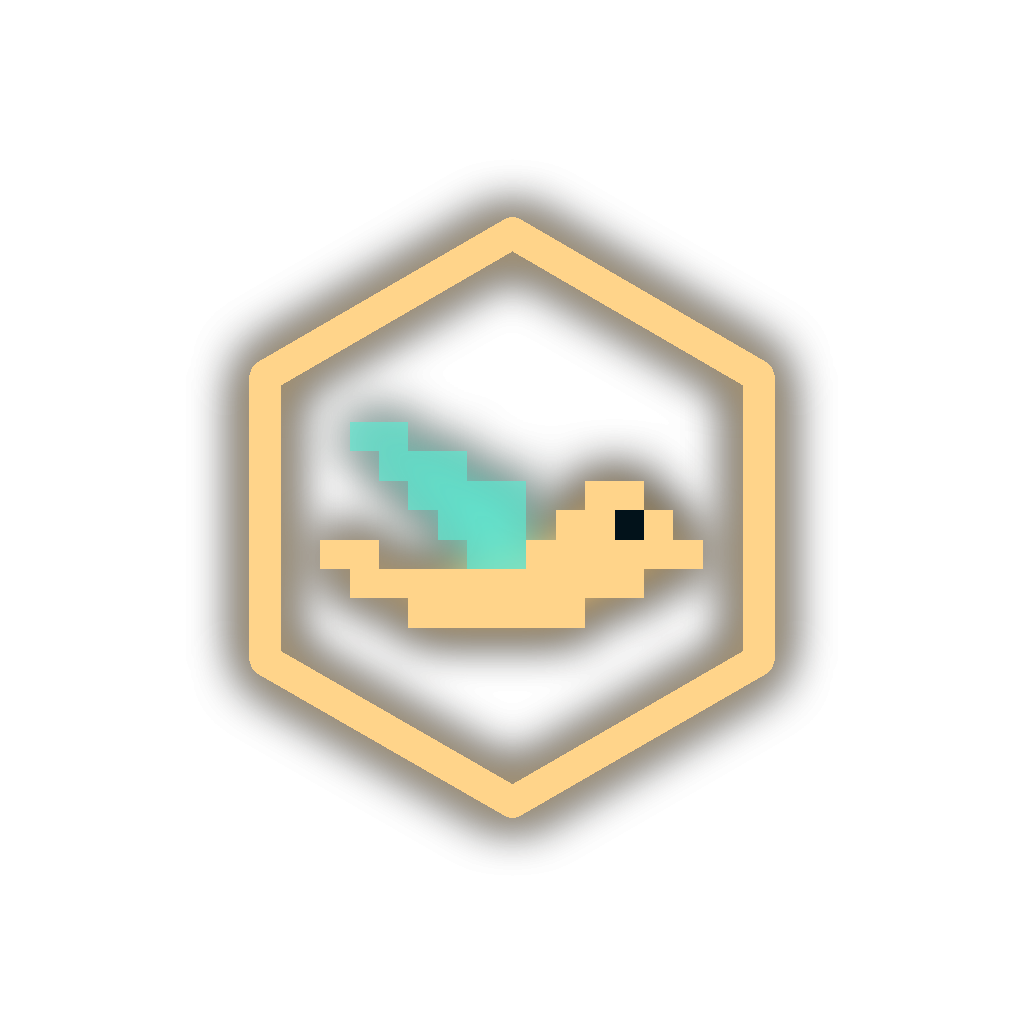
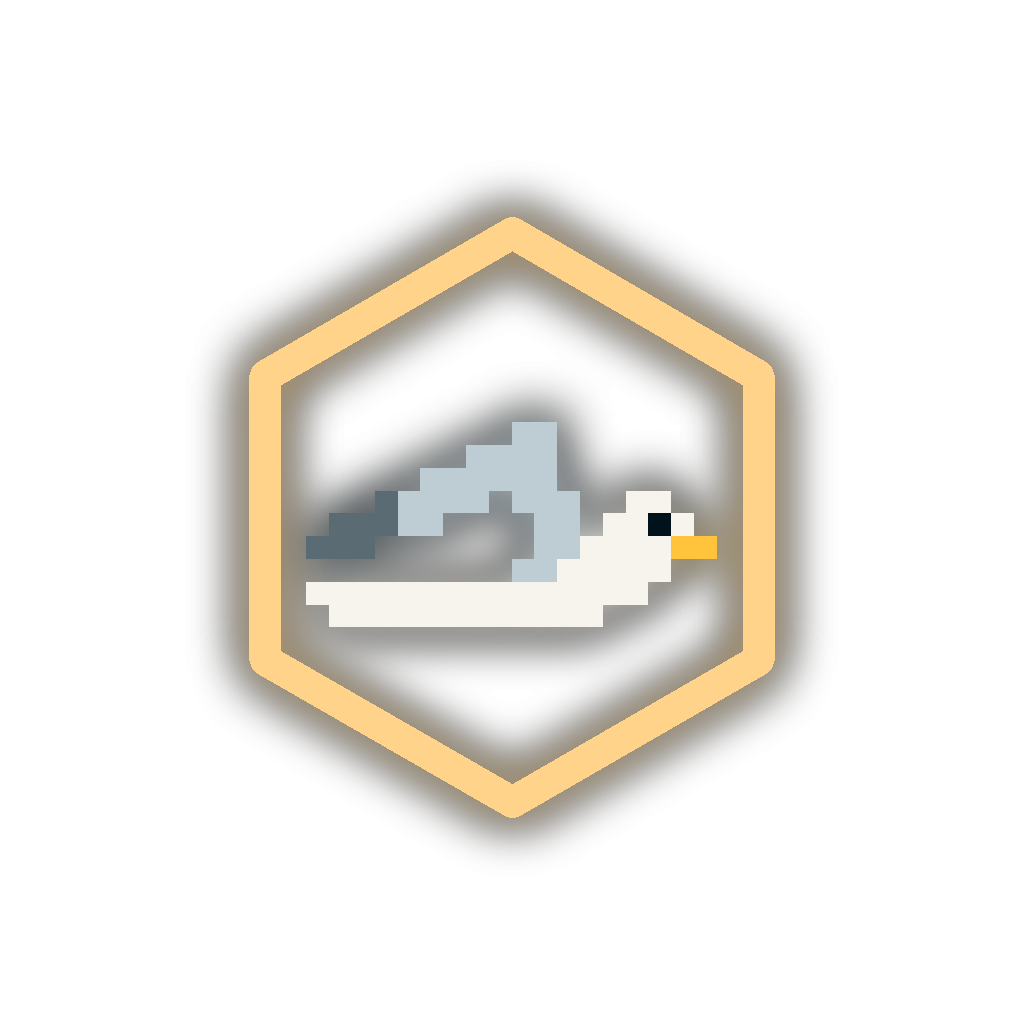
BEACH: redraw the seagull as a proper herring gull
White head and body, pale grey wing bent at the wrist with dark tips,
yellow beak. Sprites can now add their own fixed-colour pixels (paint),
used by the board, the coin flip and make-icons.py; beach icons regenerated.

Claude-Session: https://claude.ai/code/session_0149uVUp2voiC2amDCAaBD9T

Changed region(s): [[0.2812, 0.375, 0.7188, 0.6562]]

diff --git a/src/themes/sprites.ts b/src/themes/sprites.ts
@@ -1,5 +1,6 @@
 // Pixel sprites, one character per pixel:
 //   B body (screen colour)   W wing (wing colour, translucent)   s background colour   . empty
+// A sprite can add its own fixed-colour pixels in `paint` (the gull's white body, yellow beak).
 
 export interface Sprite {
   id: 'bee' | 'brain' | 'gull' | 'head';
@@ -8,6 +9,15 @@ export interface Sprite {
   rows: readonly string[];
   /** Opacity of W pixels */
   wingOpacity: number;
+  /** Extra pixel kinds with fixed colours, e.g. { Y: '#FFC43C' } for a yellow beak */
+  paint?: Readonly<Record<string, string>>;
+}
+
+/** The theme-coloured pixel kinds every sprite can use. */
+export interface SpriteInks {
+  B: string;
+  W: string;
+  s: string;
 }
 
 /** 11×7 pixel bee facing right: wings, striped body, head with an eye, stinger. */
@@ -46,39 +56,49 @@ export const BRAIN: Sprite = {
   ],
 };
 
-/** 13×7 seagull gliding right: raised seafoam wing, round head with an eye, beak, tail. */
+/**
+ * 18×9 herring gull gliding right: white head and body, pale grey wing raised and bent at the
+ * wrist with dark tips, dark eye, yellow beak, white tail.
+ */
 export const GULL: Sprite = {
   id: 'gull',
-  w: 13,
-  h: 7,
-  wingOpacity: 0.7,
+  w: 18,
+  h: 9,
+  wingOpacity: 1,
+  paint: { H: '#F6F4EC', G: '#BECDD4', K: '#5A6B74', Y: '#FFC43C' },
   rows: [
-    '.WW..........',
-    '..WWW........',
-    '...WWWW..BB..',
-    '....WWW.BBsB.',
-    'BB...WWBBBBBB',
-    '.BBBBBBBBBB..',
-    '...BBBBBB....',
+    '.........GG.......',
+    '.......GGGG.......',
+    '.....GGGGGG.......',
+    '...KGGGG.GGG..HH..',
+    '.KKKGG....GG.HHsH.',
+    'KKK.......GGHHHHYY',
+    '.........GGHHHHH..',
+    'HHHHHHHHHHHHHHH...',
+    '.HHHHHHHHHHHH.....',
   ],
 };
 
 /** Runs of same-kind pixels per row, so a sprite draws as a few rects instead of one per pixel. */
-export function spriteRuns(
-  s: Sprite,
-): { x: number; y: number; w: number; kind: 'B' | 'W' | 's' }[] {
-  const out: { x: number; y: number; w: number; kind: 'B' | 'W' | 's' }[] = [];
+export function spriteRuns(s: Sprite): { x: number; y: number; w: number; kind: string }[] {
+  const out: { x: number; y: number; w: number; kind: string }[] = [];
   s.rows.forEach((row, y) => {
     let x = 0;
     while (x < row.length) {
       const ch = row[x];
       let end = x + 1;
       while (end < row.length && row[end] === ch) end++;
-      if (ch === 'B' || ch === 'W' || ch === 's') out.push({ x, y, w: end - x, kind: ch });
+      if (ch !== '.') out.push({ x, y, w: end - x, kind: ch });
       x = end;
     }
   });
   return out;
+}
+
+/** Fill colour for a pixel kind: the theme's ink for B / W / s, else the sprite's own paint. */
+export function pixelFill(s: Sprite, kind: string, ink: SpriteInks): string {
+  if (kind === 'B' || kind === 'W' || kind === 's') return ink[kind];
+  return s.paint?.[kind] ?? ink.B;
 }
 
 /** 11×13 profile head facing right, for the heads side of the coin (only B and s pixels). */

diff --git a/src/ui/CoinFlip.tsx b/src/ui/CoinFlip.tsx
@@ -6,7 +6,7 @@ import { type CoinSide, tally } from '../domain/coin';
 import { pad2 } from '../domain/labels';
 import { COIN_LABEL_MAX } from '../store/coinLabels';
 import type { ThemeTokens } from '../themes';
-import { COIN_HEAD, type Sprite, spriteRuns } from '../themes/sprites';
+import { COIN_HEAD, pixelFill, type Sprite, spriteRuns } from '../themes/sprites';
 import { TermButton } from './Button';
 import { fonts } from './theme';
 import { useTheme, useThemedStyles } from './ThemeContext';
@@ -257,7 +257,7 @@ function SpriteAt({
 }) {
   const th = useTheme();
   const px = span / sprite.w;
-  const fill = { B: th.screen, W: th.wing, s: th.bg } as const;
+  const ink = { B: th.screen, W: th.wing, s: th.bg };
   return (
     <G
       transform={`translate(${cx - (sprite.w * px) / 2} ${cy - (sprite.h * px) / 2}) scale(${px})`}
@@ -269,7 +269,7 @@ function SpriteAt({
           y={r.y}
           width={r.w}
           height={1}
-          fill={fill[r.kind]}
+          fill={pixelFill(sprite, r.kind, ink)}
           opacity={r.kind === 'W' ? sprite.wingOpacity : undefined}
         />
       ))}

diff --git a/src/themes/__tests__/themes.test.ts b/src/themes/__tests__/themes.test.ts
@@ -9,7 +9,7 @@ import {
   themeLogLine,
   THEMES,
 } from '..';
-import { BEE, BRAIN, GULL, spriteRuns } from '../sprites';
+import { BEE, BRAIN, GULL, pixelFill, spriteRuns } from '../sprites';
 import { blend, hexToRgb } from '../tokens';
 
 const at = new Date(2026, 10, 10, 12, 16);
@@ -134,6 +134,18 @@ describe('sprites', () => {
   it.each([BEE, BRAIN, GULL])('$id rows match its size', (s) => {
     expect(s.rows).toHaveLength(s.h);
     for (const r of s.rows) expect(r).toHaveLength(s.w);
+  });
+
+  it.each([BEE, BRAIN, GULL])('$id uses only known pixel kinds', (s) => {
+    const known = new Set(['.', 'B', 'W', 's', ...Object.keys(s.paint ?? {})]);
+    for (const ch of s.rows.join('')) expect(known).toContain(ch);
+  });
+
+  it('paints theme inks and sprite colours', () => {
+    const ink = { B: '#111111', W: '#222222', s: '#333333' };
+    expect(pixelFill(GULL, 'W', ink)).toBe('#222222');
+    expect(pixelFill(GULL, 'Y', ink)).toBe('#FFC43C');
+    expect(pixelFill(BEE, 'B', ink)).toBe('#111111');
   });
 
   it('merges runs', () => {

diff --git a/src/ui/PixelBee.tsx b/src/ui/PixelBee.tsx
@@ -1,6 +1,6 @@
 import { G, Rect } from 'react-native-svg';
 
-import { type Sprite, spriteRuns } from '../themes/sprites';
+import { pixelFill, type Sprite, spriteRuns } from '../themes/sprites';
 import { useTheme } from './ThemeContext';
 
 interface Props {
@@ -24,7 +24,7 @@ export function PixelBee({ x, y, px, flip = false, color }: Props) {
   const transform = flip
     ? `translate(${x + w / 2} ${y - h / 2}) scale(${-px} ${px})`
     : `translate(${x - w / 2} ${y - h / 2}) scale(${px})`;
-  const fill = { B: body, W: t.wing, s: t.bg } as const;
+  const ink = { B: body, W: t.wing, s: t.bg };
   const runs = spriteRuns(sprite);
   return (
     <G transform={transform} testID="pixel-bee">
@@ -48,7 +48,7 @@ export function PixelBee({ x, y, px, flip = false, color }: Props) {
           y={r.y}
           width={r.w}
           height={1}
-          fill={fill[r.kind]}
+          fill={pixelFill(sprite, r.kind, ink)}
           opacity={r.kind === 'W' ? sprite.wingOpacity : undefined}
         />
       ))}

diff --git a/scripts/make-icons.py b/scripts/make-icons.py
@@ -45,14 +45,18 @@ BRAIN = [
     "......B......",
 ]
 GULL = [
-    ".WW..........",
-    "..WWW........",
-    "...WWWW..BB..",
-    "....WWW.BBsB.",
-    "BB...WWBBBBBB",
-    ".BBBBBBBBBB..",
-    "...BBBBBB....",
+    ".........GG.......",
+    ".......GGGG.......",
+    ".....GGGGGG.......",
+    "...KGGGG.GGG..HH..",
+    ".KKKGG....GG.HHsH.",
+    "KKK.......GGHHHHYY",
+    ".........GGHHHHH..",
+    "HHHHHHHHHHHHHHH...",
+    ".HHHHHHHHHHHH.....",
 ]
+# Fixed-colour pixels (same as `paint` in src/themes/sprites.ts)
+GULL_PAINT = {'H': (246, 244, 236), 'G': (190, 205, 212), 'K': (90, 107, 116), 'Y': (255, 196, 60)}
 
 THEMES = {
     # screen colour, bg, tile gradient top -> bottom, sprite, wing colour + opacity, sprite px
@@ -61,7 +65,7 @@ THEMES = {
     'brain': dict(screen=(255, 143, 184), bg=(14, 5, 9), top=(40, 12, 26), bottom=(10, 3, 7),
                   sprite=BRAIN, wing=(127, 227, 255), wing_a=190, px=30),
     'beach': dict(screen=(255, 212, 138), bg=(2, 18, 26), top=(6, 44, 60), bottom=(2, 12, 18),
-                  sprite=GULL, wing=(95, 230, 207), wing_a=180, px=31),
+                  sprite=GULL, wing=(95, 230, 207), wing_a=180, px=24, paint=GULL_PAINT),
 }
 T = THEMES['hive']
 
@@ -84,6 +88,8 @@ def draw_bee(d, cx, cy, px, color, bg, mono=False):
             # bg=None leaves the stripe/eye pixels transparent (monochrome icons)
             stripe = rgba(bg) if bg is not None else None
             col = {'W': rgba(wing, T['wing_a']), 'B': rgba(color), 's': stripe}.get(ch)
+            if ch in T.get('paint', {}):
+                col = rgba(color if mono else T['paint'][ch])
             if col is not None:
                 d.rectangle([ox + x * px, oy + y * px, ox + (x + 1) * px - 1, oy + (y + 1) * px - 1], fill=col)
 
